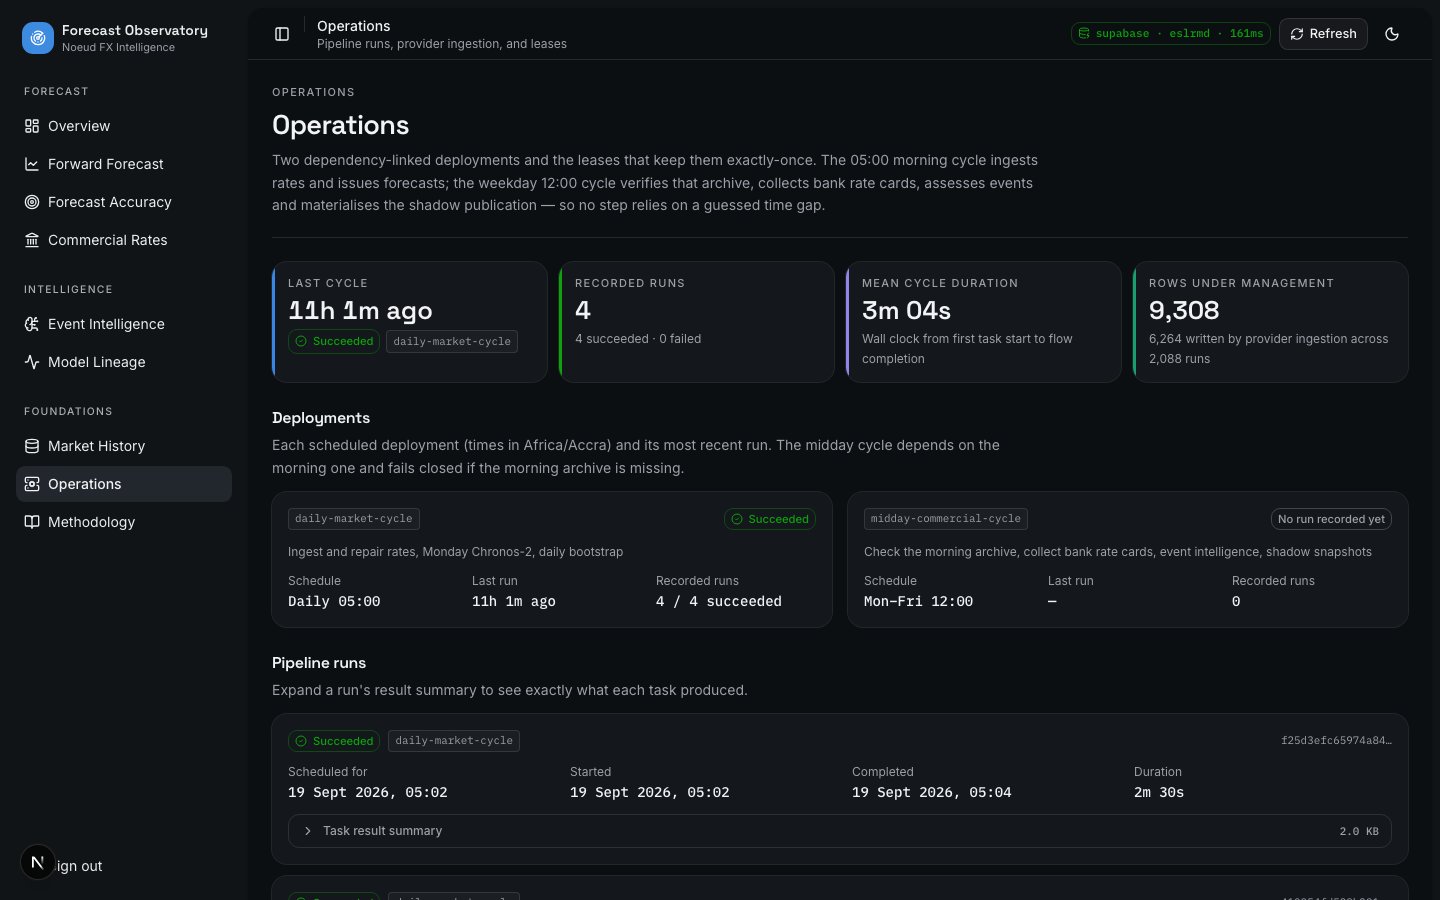
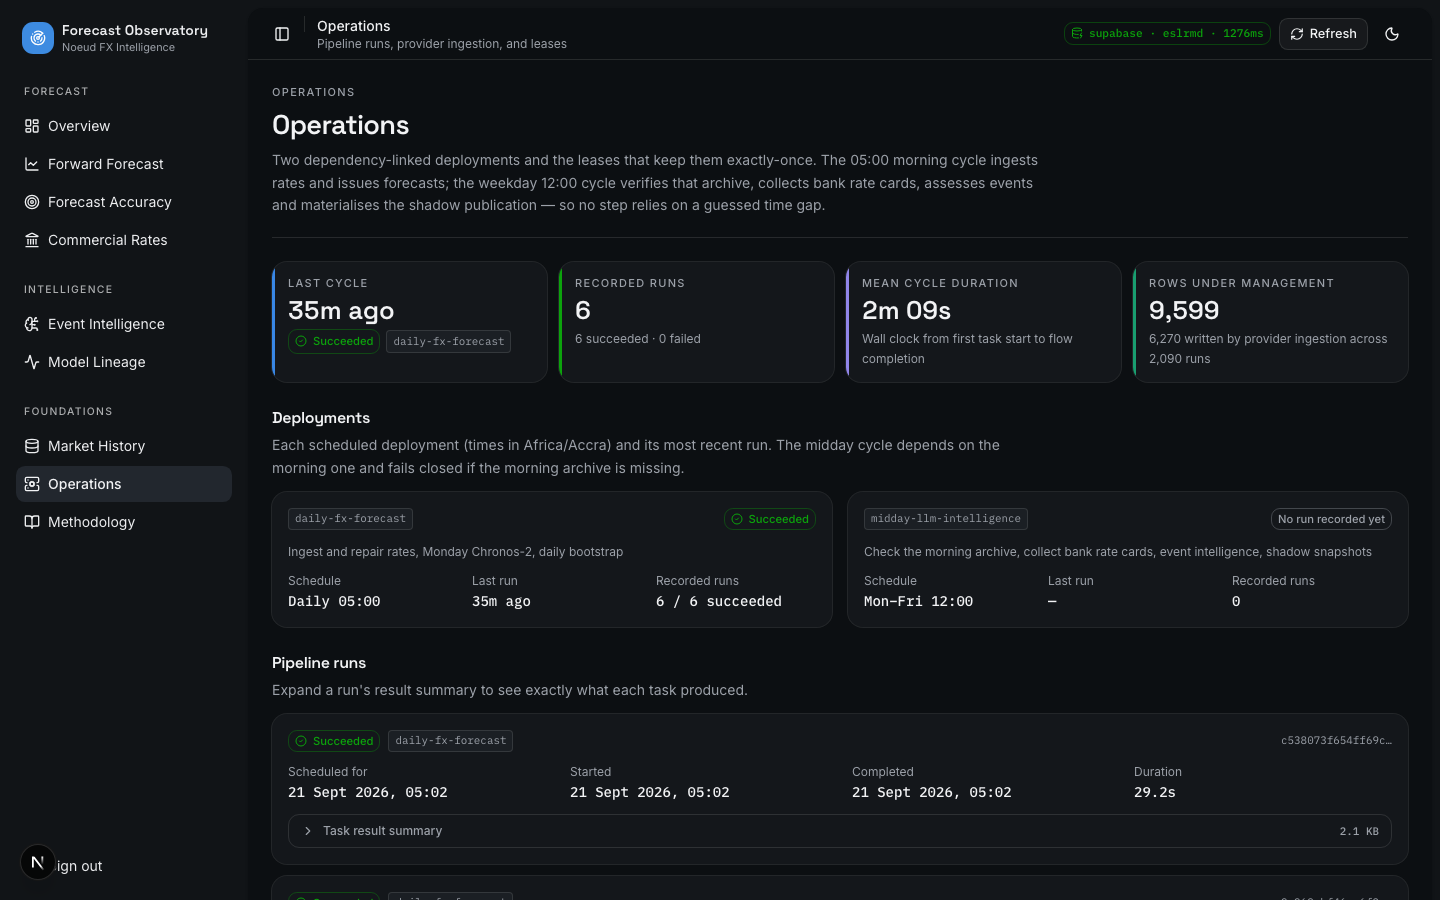
chore: align deployment names with backend schedules and refresh screenshots

diff --git a/src/app/operations/page.tsx b/src/app/operations/page.tsx
@@ -78,12 +78,15 @@ function LeaseTable({ jobs, label }: { jobs: LeaseJob[]; label: string }) {
 /** The schedules the backend registers; anything else seen in the ledger is listed too. */
 const DEPLOYMENTS = [
   {
-    name: "daily-market-cycle",
+    name: "daily-fx-forecast",
+    /** Ledger rows written before the rename. */
+    aliases: ["daily-market-cycle"],
     schedule: "Daily 05:00",
     does: "Ingest and repair rates, Monday Chronos-2, daily bootstrap",
   },
   {
-    name: "midday-commercial-cycle",
+    name: "midday-llm-intelligence",
+    aliases: [] as string[],
     schedule: "Mon–Fri 12:00",
     does: "Check the morning archive, collect bank rate cards, event intelligence, shadow snapshots",
   },
@@ -181,10 +184,22 @@ export default async function OperationsPage() {
           {[
             ...DEPLOYMENTS,
             ...Array.from(new Set(runs.map((run) => run.deployment_name)))
-              .filter((name) => !DEPLOYMENTS.some((item) => item.name === name))
-              .map((name) => ({ name, schedule: "Unscheduled / manual", does: "" })),
+              .filter(
+                (name) =>
+                  !DEPLOYMENTS.some((item) => item.name === name || item.aliases.includes(name)),
+              )
+              .map((name) => ({
+                name,
+                aliases: [] as string[],
+                schedule: "Unscheduled / manual",
+                does: "",
+              })),
           ].map((deployment) => {
-            const own = runs.filter((run) => run.deployment_name === deployment.name);
+            const own = runs.filter(
+              (run) =>
+                run.deployment_name === deployment.name ||
+                deployment.aliases.includes(run.deployment_name),
+            );
             const last = own[0] ?? null;
             const ok = own.filter((run) => run.state === "succeeded").length;
             return (

diff --git a/src/components/obs/pipeline-diagram.tsx b/src/components/obs/pipeline-diagram.tsx
@@ -64,11 +64,11 @@ export function PipelineDiagram() {
           {/* Deployment brackets */}
           <line x1={8} y1={22} x2={morningEnd} y2={22} stroke="var(--chart-1)" strokeWidth={2} />
           <text x={8} y={14} fill="var(--muted-foreground)" fontSize="10" letterSpacing="1">
-            DAILY 05:00 · daily-market-cycle
+            DAILY 05:00 · daily-fx-forecast
           </text>
           <line x1={middayStart} y1={22} x2={middayEnd} y2={22} stroke="var(--chart-2)" strokeWidth={2} />
           <text x={middayStart} y={14} fill="var(--muted-foreground)" fontSize="10" letterSpacing="1">
-            MON–FRI 12:00 · midday-commercial-cycle
+            MON–FRI 12:00 · midday-llm-intelligence
           </text>
 
           {stages.map((stage, index) => (

diff --git a/README.md b/README.md
@@ -15,8 +15,8 @@ The backend runs two deployments, and the observatory reflects both:
 
 | Deployment | Schedule (Africa/Accra) | What it writes |
 | --- | --- | --- |
-| `daily-market-cycle` | Daily 05:00 | Provider rates, Monday Chronos-2 vintage, daily bootstrap vintage |
-| `midday-commercial-cycle` | Mon–Fri 12:00 | Bank rate cards, event assessments (valid midday → midday), shadow snapshots |
+| `daily-fx-forecast` | Daily 05:00 | Provider rates, Monday Chronos-2 vintage, daily bootstrap vintage |
+| `midday-llm-intelligence` | Mon–Fri 12:00 | Bank rate cards, event assessments (valid midday → midday), shadow snapshots |
 
 It is read-only. Nothing on this dashboard writes to the forecasting database.
 
@@ -165,12 +165,22 @@ ingestion by request kind, and a live row count for every table in the schema.
   (`?origin=…`, `?date=…`), so any historical state is linkable. The decision
   history strip on `/intelligence` doubles as navigation — click a cell to
   reopen that day.
-- **Walk-forward series.** The daily bootstrap is re-issued every day, so a
-  single vintage only ever looks forward. Its fan chart and horizon table are
-  instead built from `buildWalkForwardPoints` (`src/lib/analytics.ts`), which
-  merges every stored origin and lets each date keep its most recently issued
-  forecast — a matured prediction is never dropped just because a newer
-  vintage's window moved past it.
+- **Walk-forward series.** A single vintage only ever looks forward, so when a
+  newer one arrives the earlier one would vanish from view. Both the daily
+  bootstrap *and* the weekly Chronos-2 fan charts and path tables are instead
+  built from `buildWalkForwardPoints` / `walkForwardWindow`
+  (`src/lib/analytics.ts`), which merge every stored origin and let each date
+  keep its most recently issued forecast. Last week's Chronos path therefore
+  stays on the chart after Monday's new vintage arrives (dotted lines mark where
+  each began, and the step at a Monday is the model revising itself). Opening an
+  older Chronos origin shows the world *as of* that origin. The overview
+  sparklines use the same merge.
+- **Assessments lapse.** Event assessments run Mon–Fri at 12:00 and are valid
+  midday to midday, so the newest row can be days old — a Monday morning still
+  holds Friday's. The overview, the pair cards, the snapshot table and the Event
+  Intelligence page mark a lapsed assessment as *Expired* (with when it was made
+  and when the next run is due) instead of presenting it as today's view, and
+  the "current event views" tile counts only assessments that have not lapsed.
 - **Weekends are shaded.** FX rates are quoted every calendar day here, but the
   market is shut at the weekend: the provider repeats Friday's rate while the
   models still forecast Saturday and Sunday. Every date-based chart draws a
